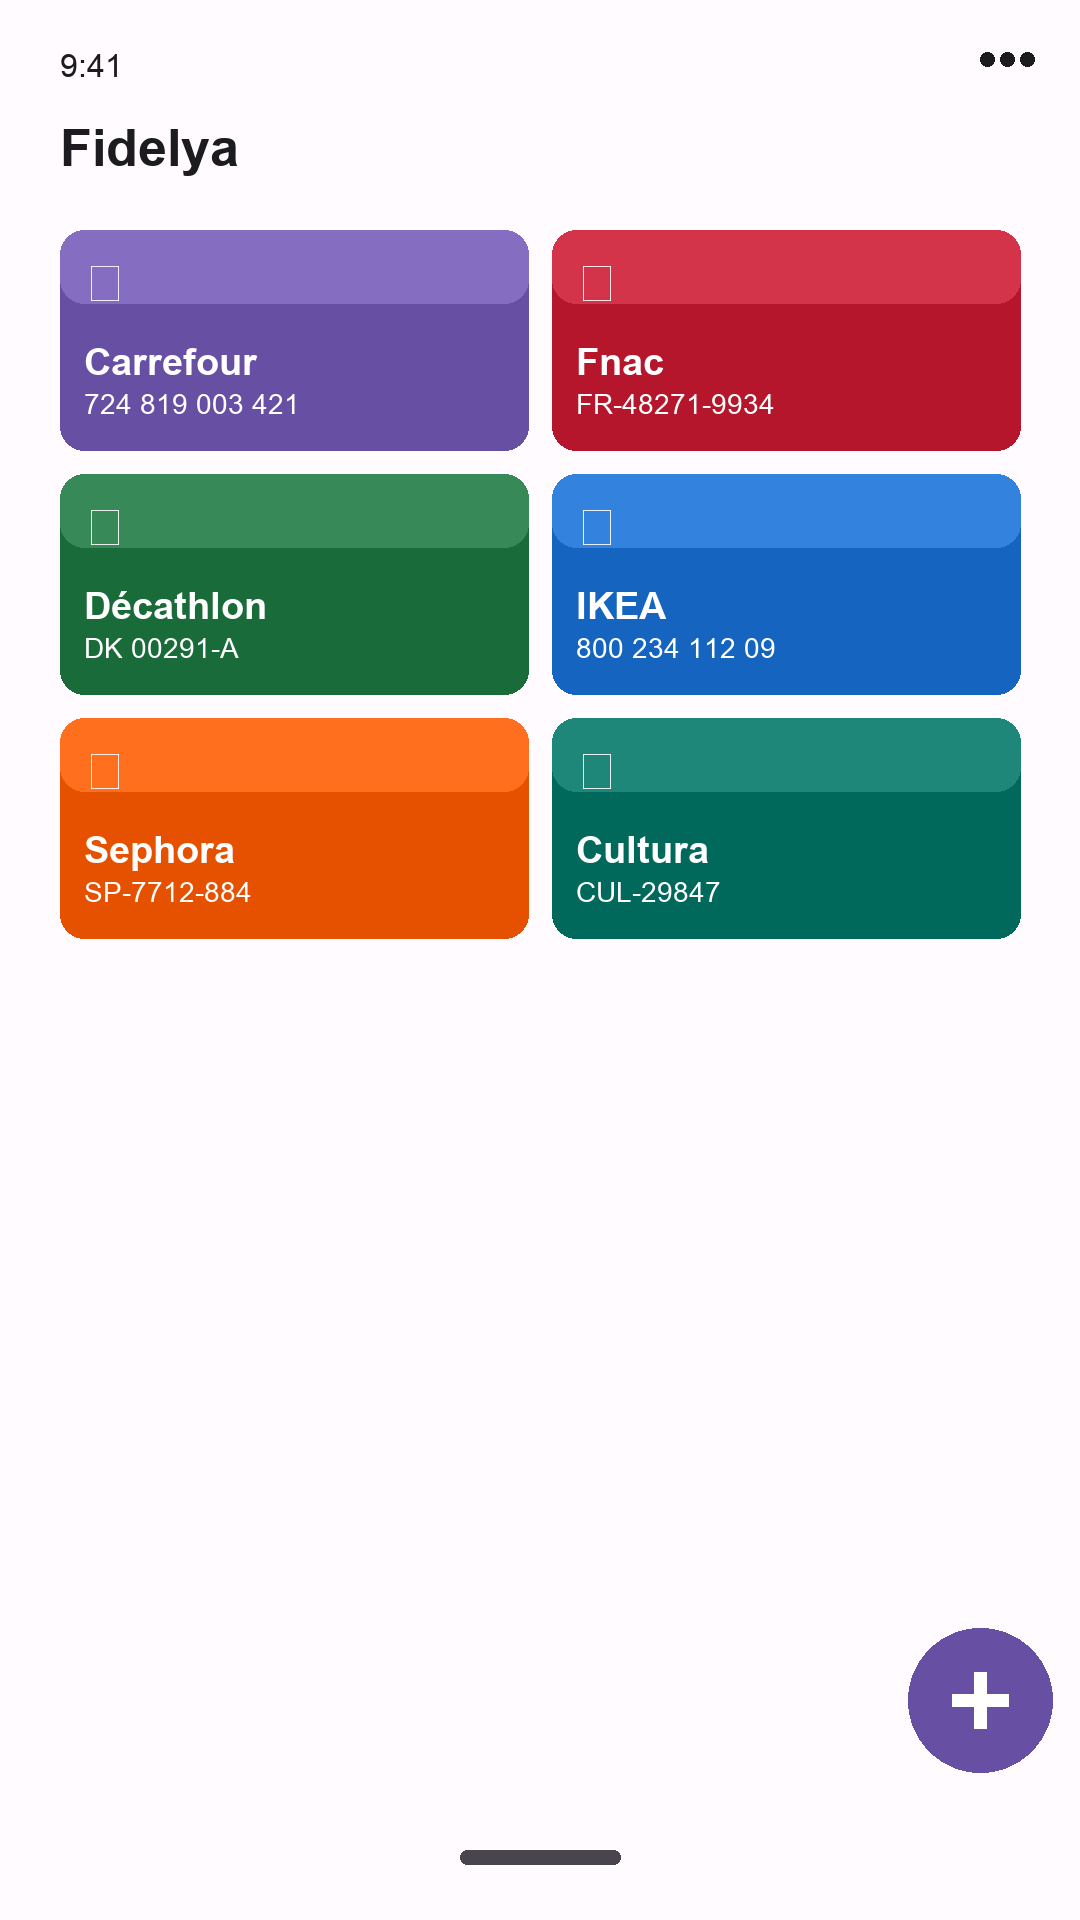
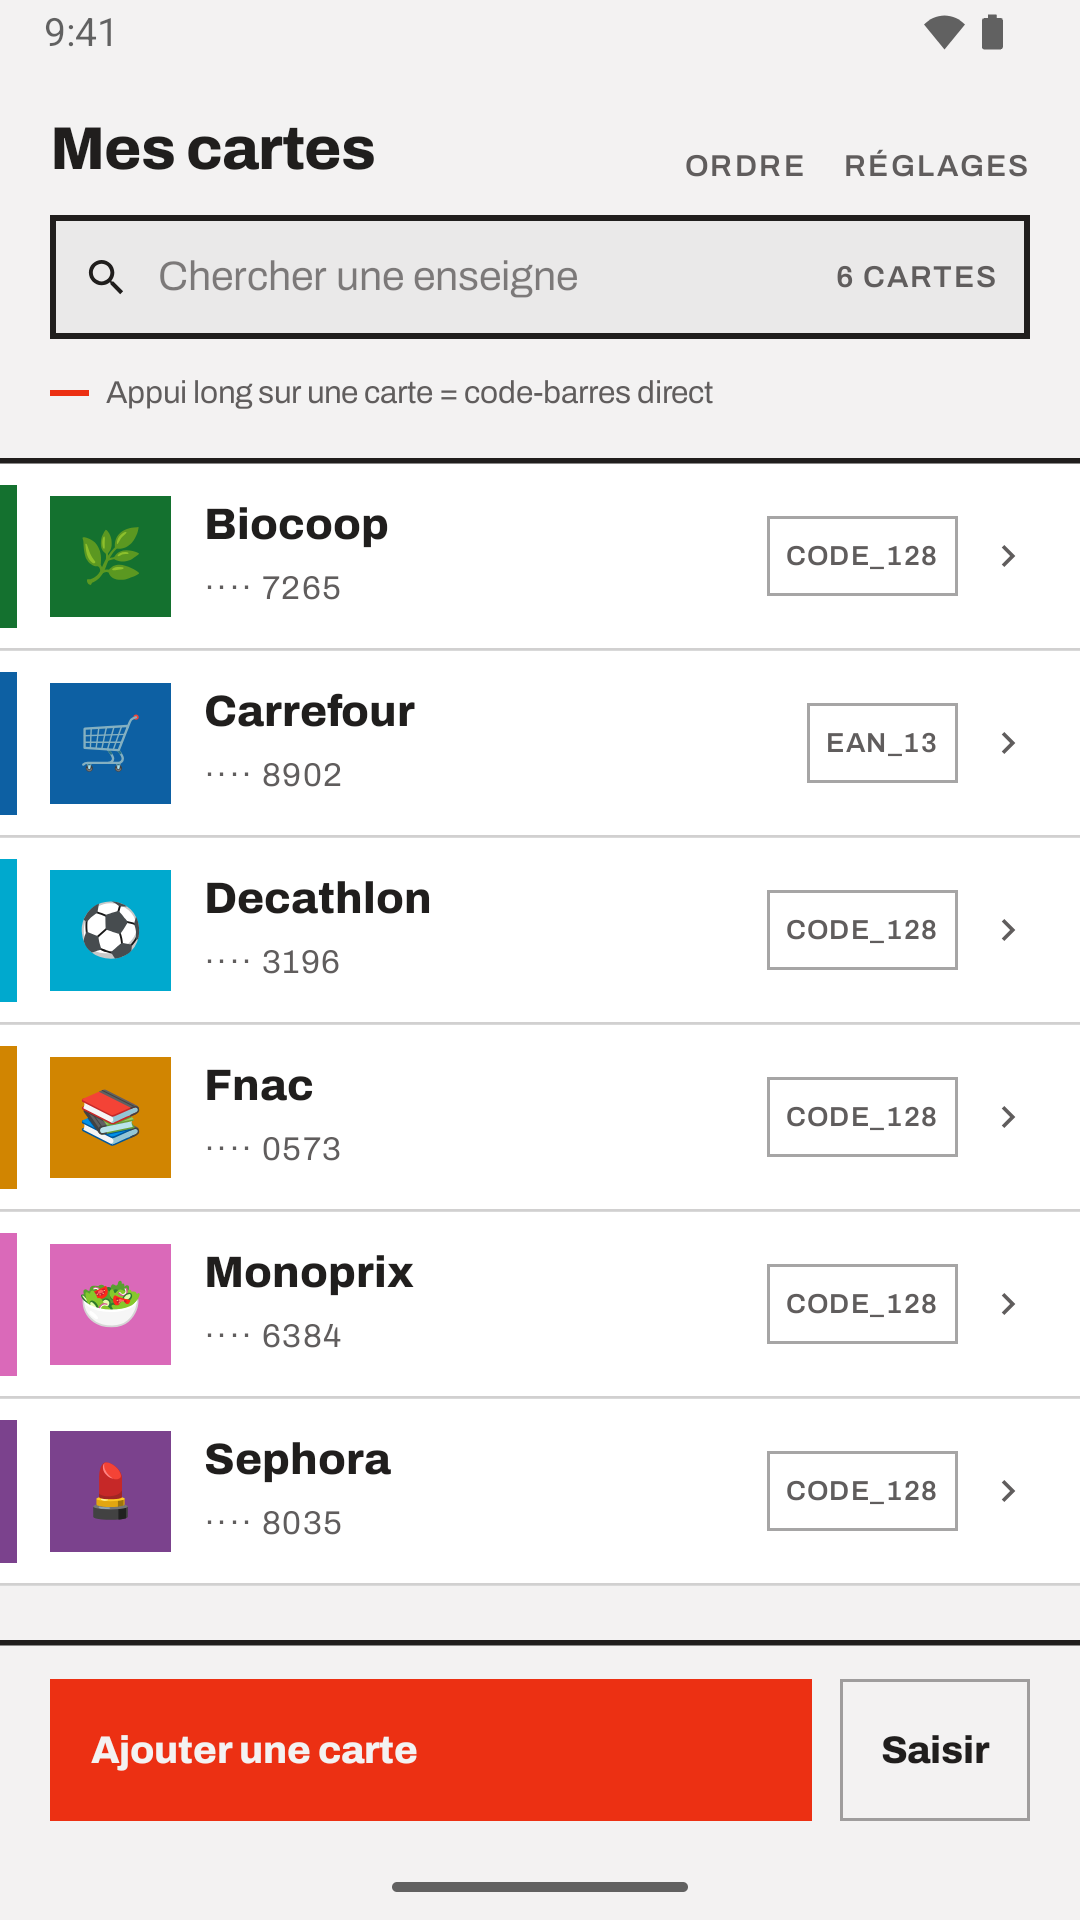
Refaire les visuels du Play Store sur l'app réelle
Les six captures dataient de la maquette Material 3 : violet #6750A4, coins
arrondis, écrans dessinés à la main en PIL. Depuis, l'app est passée au design
system « Modernist » — encre sur #F3F2F2, angles droits, filets tranchés,
Archivo 800 — et rien de ce que montrait la fiche n'existait plus.

Les huit captures viennent maintenant de l'app qui tourne, sur un émulateur
forcé en 1080x1920 densité 440 (le ratio attendu côté Play Store, alors que
l'AVD est en 9:20) avec la status bar en demo mode pour figer 9:41 et les
indicateurs. Deux d'entre elles montrent le thème Encre : la liste et le
détail. Le mode caisse n'y a pas de variante — l'écran reste blanc par
conception, pour que le lecteur du magasin s'en sorte.

`ScreenshotSeeder` peuple la base avant la prise de vue. C'est un utilitaire de
capture logé dans les tests instrumentés, pas un test de comportement : les
images de l'émulateur n'embarquent pas sqlite3, et Room reste le seul chemin
d'écriture. Il se lance avec `am instrument`, pas avec `connectedAndroidTest`,
qui désinstalle l'app — et donc sa base — en fin de tâche.

`04_scan.png` est la seule composite : l'écran est une vraie capture, mais le
preview caméra montre une carte à code-barres incrustée. L'injection de poster
dans la scène virtuelle (`-virtualscene-poster wall=`) est acceptée par
l'émulateur sans rien changer à la scène, qui reste son salon 3D.

Le générateur du graphique de mise en avant est réécrit dans le même
[…]

diff --git a/app/src/androidTest/java/com/beninho/fidelya/screenshots/ScreenshotSeeder.kt b/app/src/androidTest/java/com/beninho/fidelya/screenshots/ScreenshotSeeder.kt
@@ -1,0 +1,60 @@
+package com.beninho.fidelya.screenshots
+
+import android.content.Context
+import androidx.test.core.app.ApplicationProvider
+import androidx.test.ext.junit.runners.AndroidJUnit4
+import com.beninho.fidelya.data.db.AppDatabase
+import com.beninho.fidelya.data.db.LoyaltyCardEntity
+import com.beninho.fidelya.data.settings.SettingsStoreImpl
+import kotlinx.coroutines.runBlocking
+import org.junit.Test
+import org.junit.runner.RunWith
+
+/**
+ * Utilitaire de capture, pas un test de comportement : remplit la base de
+ * l'application avec un jeu de cartes présentable et marque l'onboarding vu,
+ * pour que les captures du Play Store montrent des écrans peuplés.
+ */
+@RunWith(AndroidJUnit4::class)
+class ScreenshotSeeder {
+
+    @Test
+    fun seed() = runBlocking {
+        val context = ApplicationProvider.getApplicationContext<Context>()
+        val dao = AppDatabase.getInstance(context).loyaltyCardDao()
+        dao.getAll().forEach { dao.delete(it) }
+
+        val day = 24L * 60 * 60 * 1000
+        val now = 1_755_000_000_000L
+        listOf(
+            card("Carrefour", "3012345678902", "EAN_13", "#0D60A3", "🛒", now - 40 * day, now - 2 * day),
+            card("Decathlon", "7208453196", "CODE_128", "#00A9CE", "⚽", now - 120 * day, now - 9 * day),
+            card("Fnac", "4419620573", "CODE_128", "#D18501", "📚", now - 200 * day, now - 24 * day),
+            card("Biocoop", "8830147265", "CODE_128", "#14712F", "🌿", now - 65 * day, now - 4 * day),
+            card("Monoprix", "5127096384", "CODE_128", "#DA69B9", "🥗", now - 15 * day, now - 6 * day),
+            card("Sephora", "6294718035", "CODE_128", "#7B428D", "💄", now - 300 * day, now - 51 * day),
+        ).forEach { dao.insert(it) }
+
+        SettingsStoreImpl(context).markOnboardingSeen()
+    }
+
+    private fun card(
+        store: String,
+        number: String,
+        format: String,
+        color: String,
+        emoji: String,
+        createdAt: Long,
+        lastUsedAt: Long
+    ) = LoyaltyCardEntity(
+        storeName = store,
+        cardNumber = number,
+        barcodeFormat = format,
+        backgroundColor = color,
+        logoUri = null,
+        logoEmoji = emoji,
+        createdAt = createdAt,
+        updatedAt = createdAt,
+        lastUsedAt = lastUsedAt
+    )
+}

diff --git a/feature_graphic_gen.py b/feature_graphic_gen.py
@@ -2,6 +2,11 @@
 Generates Play Store feature graphic for Fidelya.
 Output: screenshots/feature_graphic.png — 1024x500px
 Usage: python3 feature_graphic_gen.py
+
+Suit le design system « Modernist » de l'app : fond #F3F2F2, encre #201E1D,
+accent #EC3013, Archivo 800 pour les titres, angles droits, filets tranchés,
+aucune ombre ni dégradé. Les lignes de droite rejouent la liste « Mes cartes »
+telle que l'écran la rend, couleurs prises dans la grille de fonds.
 """
 
 from PIL import Image, ImageDraw, ImageFont
@@ -9,125 +14,150 @@ import os
 
 W, H = 1024, 500
 
-PRIMARY      = (103, 80, 164)
-PRIMARY_DARK = (79, 55, 139)
-WHITE        = (255, 255, 255, 255)
-WHITE_DIM    = (255, 255, 255, 190)
-PILL_BG      = (255, 255, 255, 55)
-BLACK        = (0, 0, 0)
+# Rôles Modernist (ui/theme/Color.kt)
+BG = (243, 242, 242)
+ROW_SURFACE = (255, 255, 255)
+INK = (32, 30, 29)
+ACCENT = (236, 48, 19)
 
-CARD_COLORS = [
-    (103, 80, 164),   # purple
-    (181, 22,  43),   # red
-    ( 26,107,  58),   # green
-    ( 21,101, 192),   # blue
+FONT_PATH = "app/src/main/res/font/archivo.ttf"
+
+# Marge de sécurité Play Store : la vignette rogne les bords, tout le contenu
+# tient dans les 924x470 centraux.
+MARGIN = 64
+
+# Fonds pris dans `domain/color/ModernistPalette.kt`, un pas 700 par famille.
+CARDS = [
+    ((13, 96, 163), "Carrefour", "···· 8902", "EAN_13"),
+    ((0, 105, 129), "Decathlon", "···· 3196", "CODE_128"),
+    ((20, 113, 47), "Biocoop", "···· 7265", "CODE_128"),
 ]
 
-def load_font(size, bold=False):
-    for path in [
-        f"/System/Library/Fonts/Supplemental/{'Arial Bold' if bold else 'Arial'}.ttf",
-        "/System/Library/Fonts/Helvetica.ttc",
-    ]:
-        try:
-            return ImageFont.truetype(path, size)
-        except:
-            continue
-    return ImageFont.load_default()
+TAGS = ["SCAN", "HORS LIGNE", "100 % PRIVÉ"]
 
-def lighten(rgb, amt):
-    return tuple(min(255, c + amt) for c in rgb)
 
-def gradient_bg(img):
-    draw = ImageDraw.Draw(img)
-    for x in range(W):
-        t = x / W
-        r = int(PRIMARY[0] + t * (PRIMARY_DARK[0] - PRIMARY[0]))
-        g = int(PRIMARY[1] + t * (PRIMARY_DARK[1] - PRIMARY[1]))
-        b = int(PRIMARY[2] + t * (PRIMARY_DARK[2] - PRIMARY[2]))
-        draw.line([(x, 0), (x, H)], fill=(r, g, b, 255))
+def font(size, weight="ExtraBold"):
+    f = ImageFont.truetype(FONT_PATH, size)
+    f.set_variation_by_name(weight)
+    return f
 
-def decorative_circles(img):
-    """Subtle circles placed well outside the text zone (right/bottom only)."""
-    overlay = Image.new("RGBA", (W, H), (0, 0, 0, 0))
-    draw = ImageDraw.Draw(overlay)
-    # bottom-right large circle — won't touch left text
-    draw.ellipse([720, 280, 1120, 680], fill=(255, 255, 255, 16))
-    # top-right small circle
-    draw.ellipse([860, -80, 1020, 80],  fill=(255, 255, 255, 22))
-    img.alpha_composite(overlay)
 
-def mini_card(w, h, color, store, number, angle=0):
-    card = Image.new("RGBA", (w, h), (0, 0, 0, 0))
-    cd = ImageDraw.Draw(card)
-    cd.rounded_rectangle([0, 0, w-1, h-1], radius=20, fill=color + (255,))
-    cd.rounded_rectangle([0, 0, w-1, h//3], radius=20, fill=lighten(color, 28) + (255,))
+def ink(alpha):
+    """L'encre à N %, aplatie sur le fond : les opacités du design system."""
+    return tuple(round(BG[i] + (INK[i] - BG[i]) * alpha) for i in range(3))
 
-    f_store = load_font(max(16, w // 7), bold=True)
-    f_num   = load_font(max(11, w // 11))
-    cd.text((20, h - 56), store,  fill=(255, 255, 255, 230), font=f_store)
-    cd.text((20, h - 28), number, fill=(255, 255, 255, 160), font=f_num)
 
-    # barcode hint lines
-    bx = 20
-    while bx < w - 20:
-        bw = 3 if bx % 13 == 0 else 2
-        cd.rectangle([bx, 22, bx + bw, 50], fill=(255, 255, 255, 60))
-        bx += bw + 4
+def card_foreground(rgb):
+    """`cardForegroundColor` : l'encre du thème au-delà de 0.2 de luminance, le fond en dessous."""
+    def channel(c):
+        c /= 255
+        return c / 12.92 if c <= 0.04045 else ((c + 0.055) / 1.055) ** 2.4
+    r, g, b = (channel(c) for c in rgb)
+    luminance = 0.2126 * r + 0.7152 * g + 0.0722 * b
+    return INK if luminance > 0.2 else BG
 
-    return card.rotate(angle, expand=True, resample=Image.BICUBIC)
 
-def draw_cards_fan(base):
-    cards_data = [
-        (CARD_COLORS[0], "Carrefour", "724 819 003", -16),
-        (CARD_COLORS[1], "Fnac",      "FR-48271",    -6),
-        (CARD_COLORS[2], "Décathlon", "DK 00291",     6),
-        (CARD_COLORS[3], "IKEA",      "800 234 112",  16),
-    ]
-    cx, cy = 760, 260
-    for color, store, num, angle in cards_data:
-        card = mini_card(230, 148, color, store, num, angle)
-        ox = cx - card.width  // 2
-        oy = cy - card.height // 2
-        base.alpha_composite(card, (ox, oy))
+def tracked_text(draw, xy, text, f, fill, tracking=0.0):
+    """Rend `text` lettre à lettre : PIL n'a pas d'interlettrage."""
+    x, y = xy
+    for char in text:
+        draw.text((x, y), char, font=f, fill=fill)
+        x += draw.textlength(char, font=f) + tracking
+    return x
 
-def draw_pills(draw, labels, x, y):
-    for label in labels:
-        f = load_font(27, bold=True)
-        bbox = draw.textbbox((0, 0), label, font=f)
-        pw = bbox[2] - bbox[0] + 40
-        ph = 42
-        # semi-transparent pill via RGBA draw
-        draw.rounded_rectangle([x, y, x + pw, y + ph], radius=21,
-                                fill=(255, 255, 255, 50))
-        draw.text((x + pw // 2, y + ph // 2), label,
-                  fill=(0, 0, 0, 230), font=f, anchor="mm")
-        x += pw + 14
+
+def tracked_width(draw, text, f, tracking=0.0):
+    return sum(draw.textlength(c, font=f) for c in text) + tracking * max(0, len(text) - 1)
+
+
+def draw_title_block(draw):
+    x = MARGIN
+
+    # L'amorce de l'écran de liste : un filet d'accent, puis un intertitre en capitales.
+    label_font = font(19, "SemiBold")
+    draw.rectangle([x, 96, x + 46, 100], fill=ACCENT)
+    tracked_text(draw, (x + 62, 84), "CARTES DE FIDÉLITÉ", label_font, ink(0.60), tracking=2.4)
+
+    # Titre : Archivo 800, interlettrage -0.015em du design system.
+    title_font = font(124)
+    tracked_text(draw, (x - 6, 126), "Fidelya", title_font, INK, tracking=-1.9)
+
+    body_font = font(30, "Regular")
+    draw.text((x, 286), "Toutes vos cartes, sur vous,", font=body_font, fill=ink(0.55))
+    draw.text((x, 326), "même sans réseau.", font=body_font, fill=ink(0.55))
+
+
+def draw_tags(draw, y):
+    """Les badges de format de la liste : rectangle filet, capitales interlettrées."""
+    f = font(17, "SemiBold")
+    x = MARGIN
+    for tag in TAGS:
+        w = tracked_width(draw, tag, f, tracking=2.0)
+        box_w, box_h = w + 40, 46
+        draw.rectangle([x, y, x + box_w, y + box_h], outline=ink(0.40), width=2)
+        tracked_text(draw, (x + 20, y + 12), tag, f, INK, tracking=2.0)
+        x += box_w + 14
+
+
+def draw_row(base, x, y, w, h, card):
+    """Une ligne de « Mes cartes » : liseré de couleur, tuile, nom, numéro, format."""
+    color, store, number, fmt = card
+    draw = ImageDraw.Draw(base)
+    draw.rectangle([x, y, x + w, y + h], fill=ROW_SURFACE)
+
+    # Le liseré qui reprend le fond de la carte, à gauche de la ligne.
+    draw.rectangle([x, y + 10, x + 8, y + h - 10], fill=color)
+
+    tile = 58
+    tx, ty = x + 30, y + (h - tile) // 2
+    draw.rectangle([tx, ty, tx + tile, ty + tile], fill=color)
+    initial_font = font(34)
+    draw.text((tx + tile / 2, ty + tile / 2 - 2), store[0], font=initial_font,
+              fill=card_foreground(color), anchor="mm")
+
+    draw.text((tx + tile + 22, y + 18), store, font=font(25), fill=INK)
+    draw.text((tx + tile + 22, y + 52), number, font=font(18, "Regular"), fill=ink(0.50))
+
+    f = font(15, "SemiBold")
+    bw = tracked_width(draw, fmt, f, tracking=1.6) + 28
+    bx = x + w - 22 - bw
+    by = y + (h - 34) // 2
+    draw.rectangle([bx, by, bx + bw, by + 34], outline=ink(0.40), width=2)
+    tracked_text(draw, (bx + 14, by + 7), fmt, f, ink(0.75), tracking=1.6)
+
+
+def draw_card_list(base):
+    x, w = 520, W - 520 - MARGIN
+    y, h, gap = 70, 94, 12
+
+    draw = ImageDraw.Draw(base)
+    # Le trait noir qui ouvre la liste sous la barre de titre de l'écran.
+    draw.rectangle([x, y - 14, x + w, y - 10], fill=INK)
+
+    for card in CARDS:
+        draw_row(base, x, y, w, h, card)
+        y += h + gap
+
+    # Le bouton d'action, pleine largeur et en accent, comme au bas de la liste.
+    btn_h = 68
+    draw.rectangle([x, y + 6, x + w, y + 6 + btn_h], fill=ACCENT)
+    draw.text((x + 26, y + 6 + btn_h / 2 - 2), "Ajouter une carte", font=font(25),
+              fill=BG, anchor="lm")
+
 
 def main():
-    img = Image.new("RGBA", (W, H))
-    gradient_bg(img)
-    decorative_circles(img)
-    draw_cards_fan(img)
-
+    img = Image.new("RGB", (W, H), BG)
     draw = ImageDraw.Draw(img)
 
-    # App name
-    draw.text((68, 105), "Fidelya", fill=WHITE, font=load_font(98, bold=True))
-
-    # Tagline
-    draw.text((68, 228), "Toutes vos cartes de fidélité", fill=WHITE_DIM, font=load_font(36))
-    draw.text((68, 274), "dans votre poche.", fill=WHITE_DIM, font=load_font(36))
-
-    # Pills
-    draw_pills(draw, ["Scan", "Saisie manuelle", "Hors ligne", "100 % privé"], 68, 358)
-
-    # bottom line
-    draw.rectangle([68, 462, 310, 466], fill=(255, 255, 255, 80))
+    draw_title_block(draw)
+    draw_tags(draw, 392)
+    draw_card_list(img)
 
     os.makedirs("screenshots", exist_ok=True)
     out = "screenshots/feature_graphic.png"
-    img.convert("RGB").save(out, "PNG", optimize=True)
+    img.save(out, "PNG", optimize=True)
     print(f"✓ {out} — {W}×{H}px — {os.path.getsize(out)//1024} KB")
+
 
 if __name__ == "__main__":
     main()
